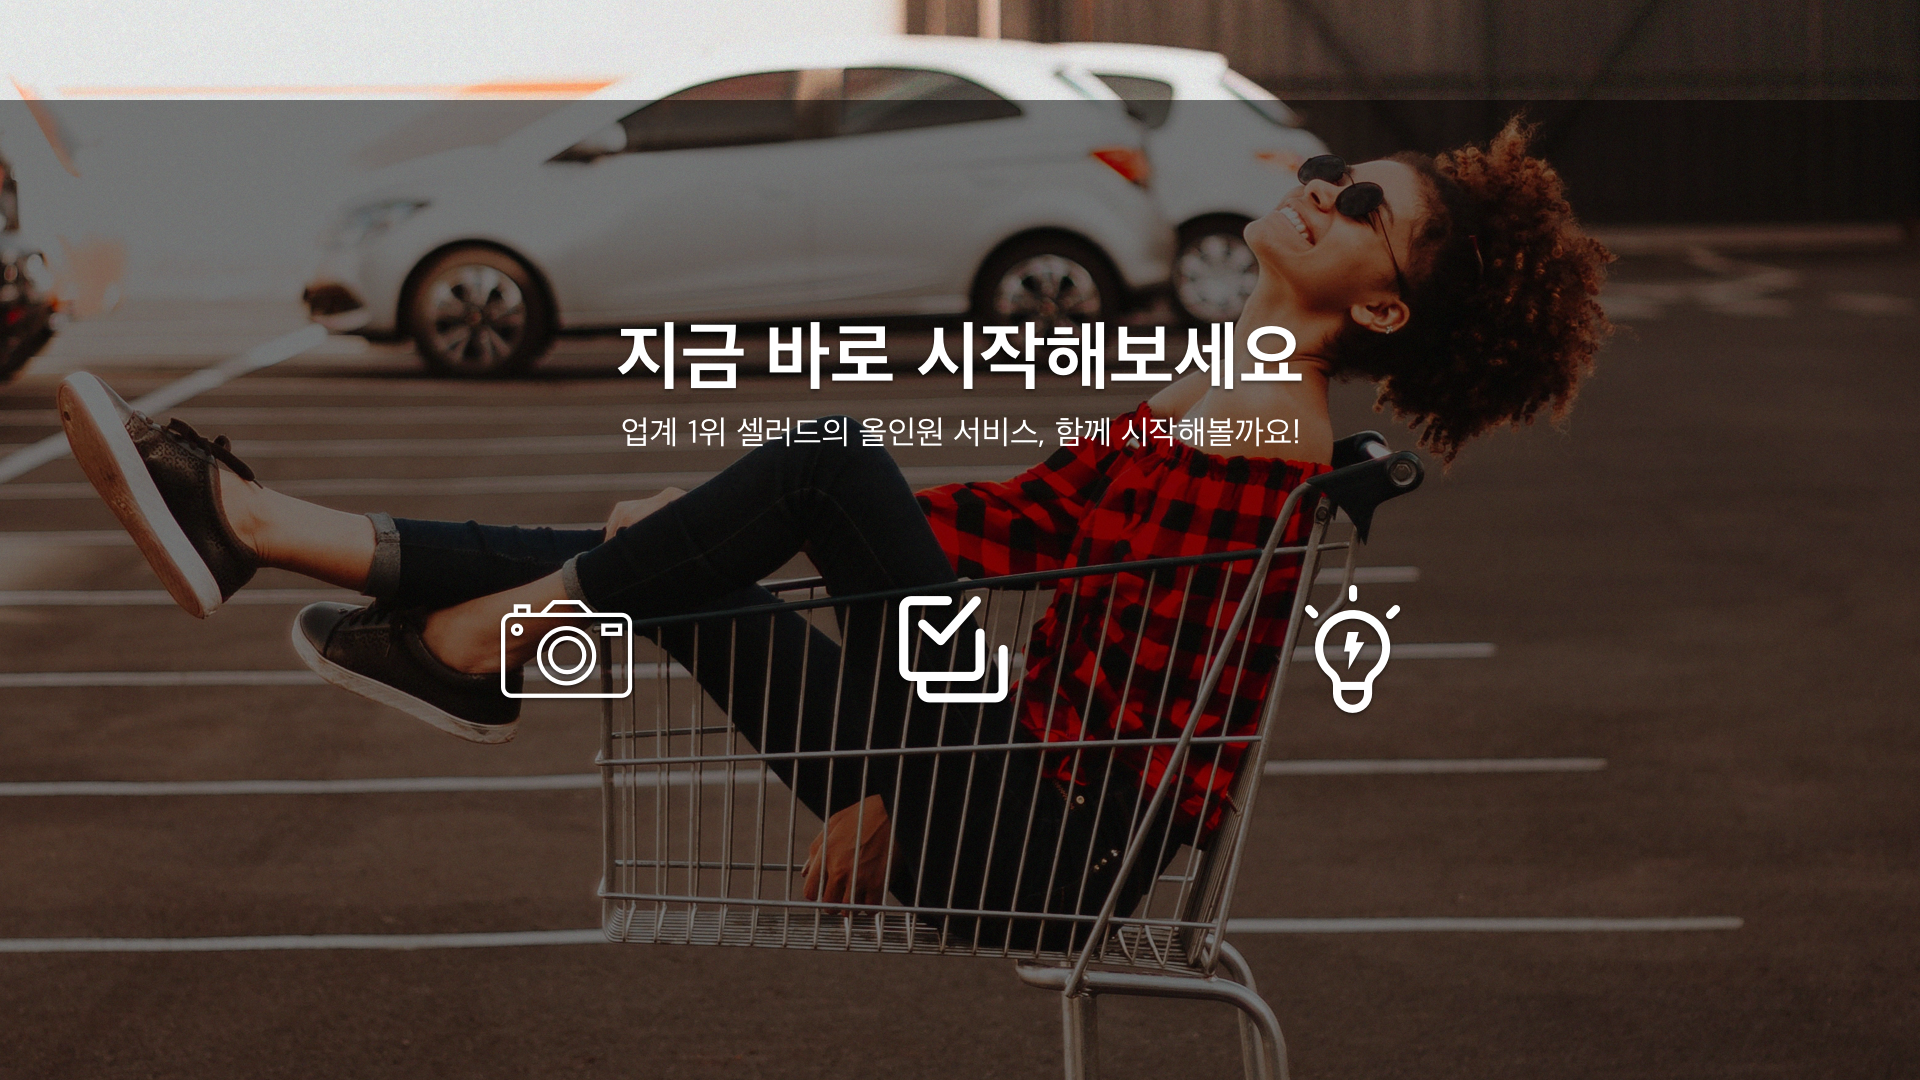
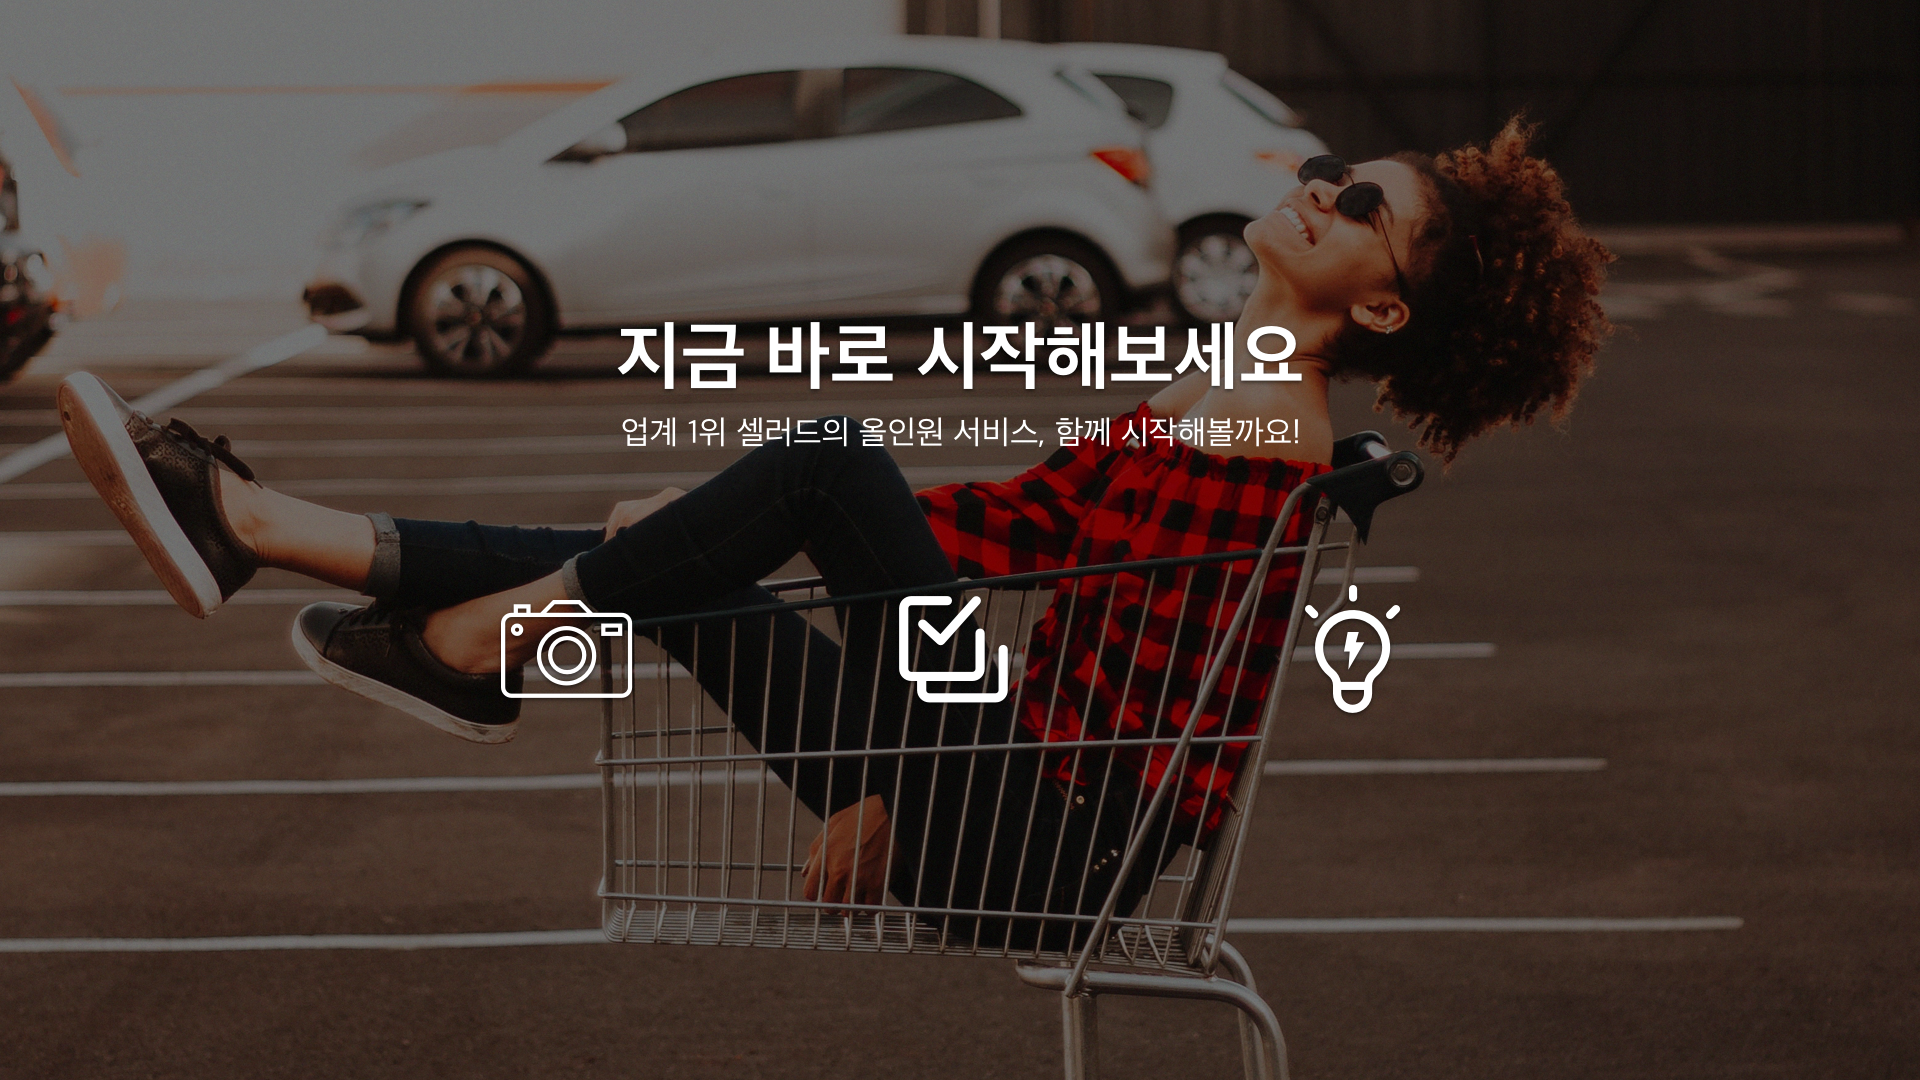
main

Changed region(s): [[0.0, 0.0, 0.9688, 0.0917]]

diff --git a/app/assets/stylesheets/application.scss b/app/assets/stylesheets/application.scss
@@ -158,3 +158,58 @@ html {
     overflow: hidden;
     position: absolute;
 }
+
+.mainmain {
+    background-image: url("mainimage.png");
+    width: 100%;
+}
+
+.centered1 {
+    position: absolute;
+    top: 77%;
+    left: 29.5%;
+    transform: translate(-50%, -50%);
+    text-align: center;
+    margin-top: 30px;
+}
+
+.labelfont3 {
+    font-size: 1rem;
+    font-family: 'Nanum Gothic', sans-serif;
+    font-weight: 700;
+    font-size: 100px;
+}
+
+.btn1 {
+    border: 2px solid white !important;
+    background: rgba(0,0,0,0.5) !important;
+    width: 300px;
+    height: 90px;
+    font-size: 40px !important;
+    font-family: 'Gothic A1', sans-serif;
+}
+
+.btn1:hover {
+    background-color: #ffc305 !important;
+    opacity: 0.8;
+    text-decoration: none !important;
+    color: white;
+}
+
+.centered2 {
+    position: absolute;
+    top: 77%;
+    left: 49.7%;
+    transform: translate(-50%, -50%);
+    text-align: center;
+    margin-top: 30px;
+}
+
+.centered3 {
+    position: absolute;
+    top: 77%;
+    left: 71%;
+    transform: translate(-50%, -50%);
+    text-align: center;
+    margin-top: 30px;
+}

diff --git a/db/schema.rb b/db/schema.rb
@@ -64,7 +64,6 @@ ActiveRecord::Schema.define(version: 20180804045852) do
     t.integer  "jejuDlvCst"
     t.integer  "islandDlvCst"
     t.integer  "PrdFrDlvBasiAmt"
-    t.string   "prd"
     t.datetime "created_at",       null: false
     t.datetime "updated_at",       null: false
   end
